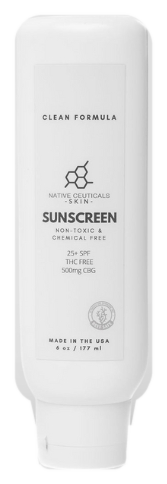
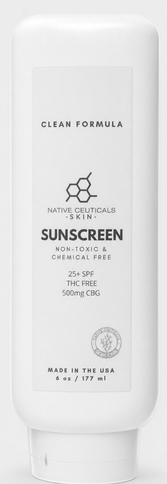
Clean product cutouts and correct sunscreen label

diff --git a/version-2.html b/version-2.html
@@ -7,66 +7,9 @@
   <link rel="preconnect" href="https://fonts.googleapis.com">
   <link rel="preconnect" href="https://fonts.gstatic.com" crossorigin>
   <link href="https://fonts.googleapis.com/css2?family=Playfair+Display:wght@400;700&display=swap" rel="stylesheet">
-  <link rel="stylesheet" href="version-2.css?v=5">
+  <link rel="stylesheet" href="version-2.css?v=6">
 </head>
 <body>
-  <svg class="svg-filters" aria-hidden="true" focusable="false">
-    <defs>
-      <filter id="v2-product-present" x="-35%" y="-35%" width="170%" height="170%" color-interpolation-filters="sRGB">
-        <feMorphology in="SourceAlpha" operator="erode" radius="0.65" result="matteAlpha"/>
-        <feGaussianBlur in="matteAlpha" stdDeviation="0.35" result="softMatte"/>
-        <feComposite in="SourceGraphic" in2="softMatte" operator="in" result="cleanProduct"/>
-
-        <feMorphology in="SourceAlpha" operator="erode" radius="3.5" result="solidCore"/>
-        <feComposite in="SourceAlpha" in2="solidCore" operator="out" result="edgeShell"/>
-        <feGaussianBlur in="edgeShell" stdDeviation="1.8" result="sourceBand"/>
-
-        <feMorphology in="SourceAlpha" operator="erode" radius="1.8" result="innerAnchor"/>
-        <feGaussianBlur in="innerAnchor" stdDeviation="6" result="glowCore"/>
-        <feGaussianBlur in="innerAnchor" stdDeviation="13" result="glowHalo"/>
-
-        <feTurbulence type="fractalNoise" baseFrequency="0.72" numOctaves="4" seed="11" stitchTiles="stitch" result="noise"/>
-        <feColorMatrix in="noise" type="saturate" values="0" result="monoNoise"/>
-        <feComponentTransfer in="monoNoise" result="grain">
-          <feFuncA type="discrete" tableValues="0.18 0.42 0.28 0.56 0.34 0.68 0.22 0.74"/>
-        </feComponentTransfer>
-
-        <feComposite in="sourceBand" in2="grain" operator="in" result="grainBand"/>
-        <feComponentTransfer in="grainBand" result="texturedBand">
-          <feFuncA type="gamma" amplitude="1.22" exponent="0.52" offset="0.04"/>
-        </feComponentTransfer>
-        <feFlood flood-color="#cfcfcf" flood-opacity="0.4" result="bandFill"/>
-        <feComposite in="bandFill" in2="texturedBand" operator="in" result="sourceGlow"/>
-
-        <feComposite in="glowCore" in2="grain" operator="in" result="grainCore"/>
-        <feComponentTransfer in="grainCore" result="texturedCore">
-          <feFuncA type="gamma" amplitude="1.15" exponent="0.55" offset="0"/>
-        </feComponentTransfer>
-        <feFlood flood-color="#d0d0d0" flood-opacity="0.32" result="coreFill"/>
-        <feComposite in="coreFill" in2="texturedCore" operator="in" result="innerGlow"/>
-
-        <feComposite in="glowHalo" in2="grain" operator="in" result="grainHalo"/>
-        <feFlood flood-color="#9a9a9a" flood-opacity="0.14" result="haloFill"/>
-        <feComposite in="haloFill" in2="grainHalo" operator="in" result="outerGlow"/>
-
-        <feMerge result="allGlow">
-          <feMergeNode in="outerGlow"/>
-          <feMergeNode in="innerGlow"/>
-          <feMergeNode in="sourceGlow"/>
-        </feMerge>
-
-        <feMorphology in="SourceAlpha" operator="dilate" radius="10" result="clipMask"/>
-        <feGaussianBlur in="clipMask" stdDeviation="1.8" result="softClip"/>
-        <feComposite in="allGlow" in2="softClip" operator="in" result="clippedGlow"/>
-
-        <feMerge>
-          <feMergeNode in="clippedGlow"/>
-          <feMergeNode in="cleanProduct"/>
-        </feMerge>
-      </filter>
-    </defs>
-  </svg>
-
   <main class="v2-shell" data-active="sunscreen">
     <section class="v2-stage" aria-label="Native Ceuticals monochrome ritual showcase">
       <div class="v2-backdrop" aria-hidden="true"></div>

diff --git a/version-2.css b/version-2.css
@@ -31,13 +31,6 @@ button {
   font: inherit;
 }
 
-.svg-filters {
-  position: absolute;
-  width: 0;
-  height: 0;
-  overflow: hidden;
-}
-
 .v2-shell {
   min-height: 100vh;
   min-height: 100svh;
@@ -278,11 +271,11 @@ button {
   max-height: min(74vh, 42rem);
   object-fit: contain;
   filter:
-    url(#v2-product-present)
     grayscale(1)
-    contrast(0.98)
-    brightness(0.84)
-    drop-shadow(0 2rem 2.4rem rgba(0, 0, 0, 0.72));
+    contrast(1.01)
+    brightness(0.88)
+    drop-shadow(0 0 0.22rem rgba(190, 190, 190, 0.2))
+    drop-shadow(0 1.8rem 2rem rgba(0, 0, 0, 0.78));
   transition: opacity 260ms ease, transform 260ms ease, filter 260ms ease;
 }
 